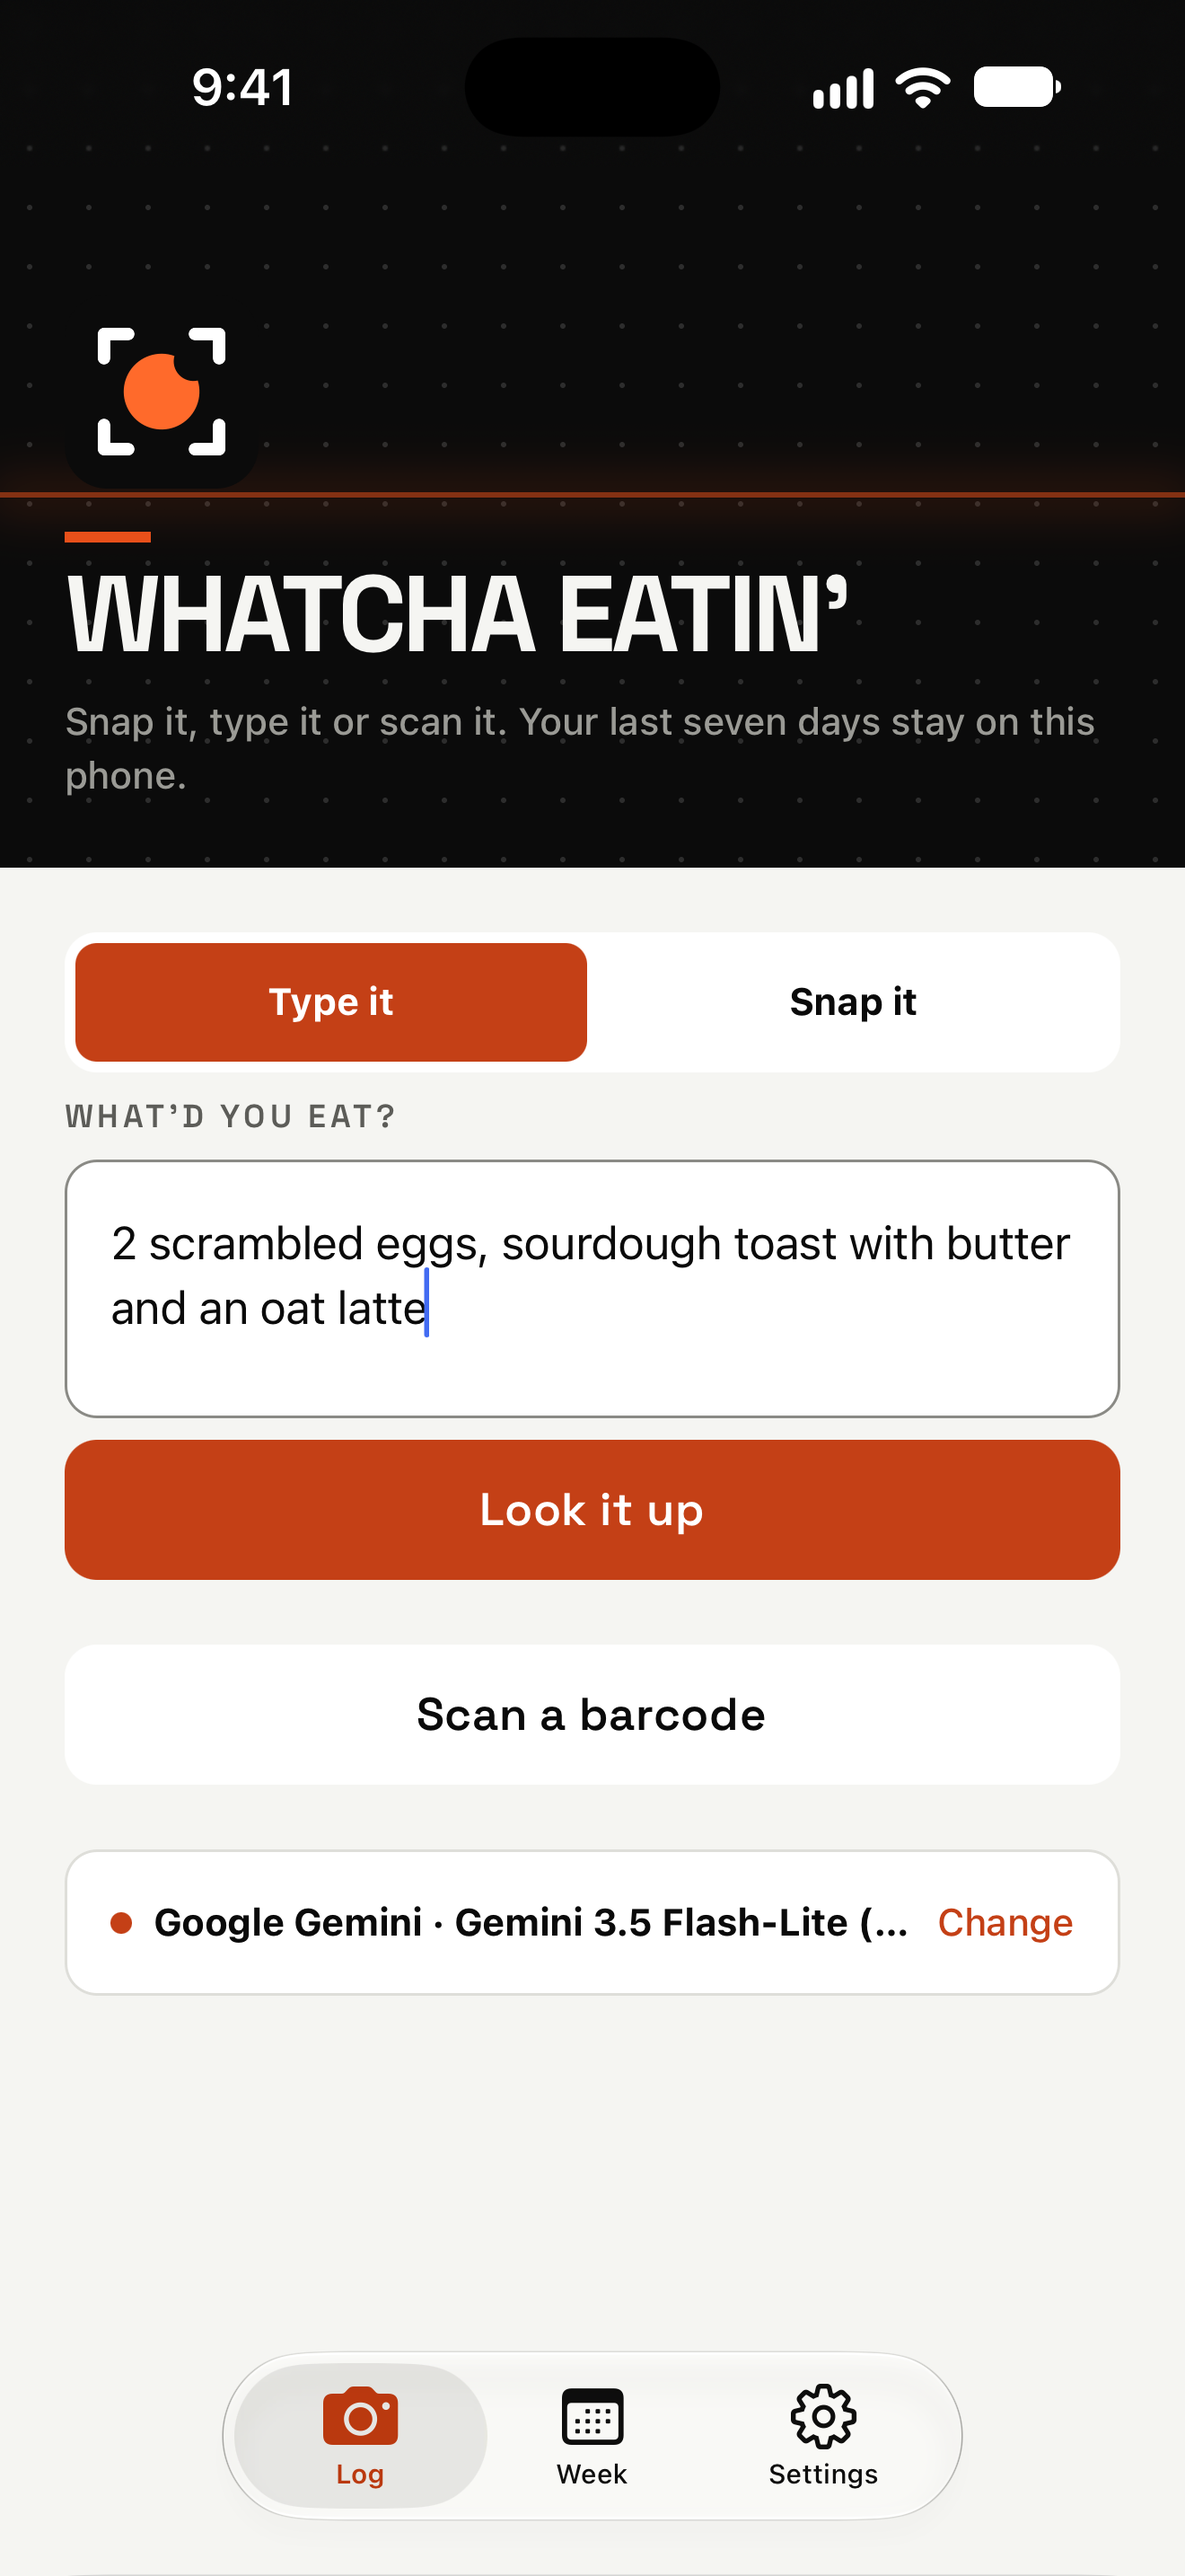
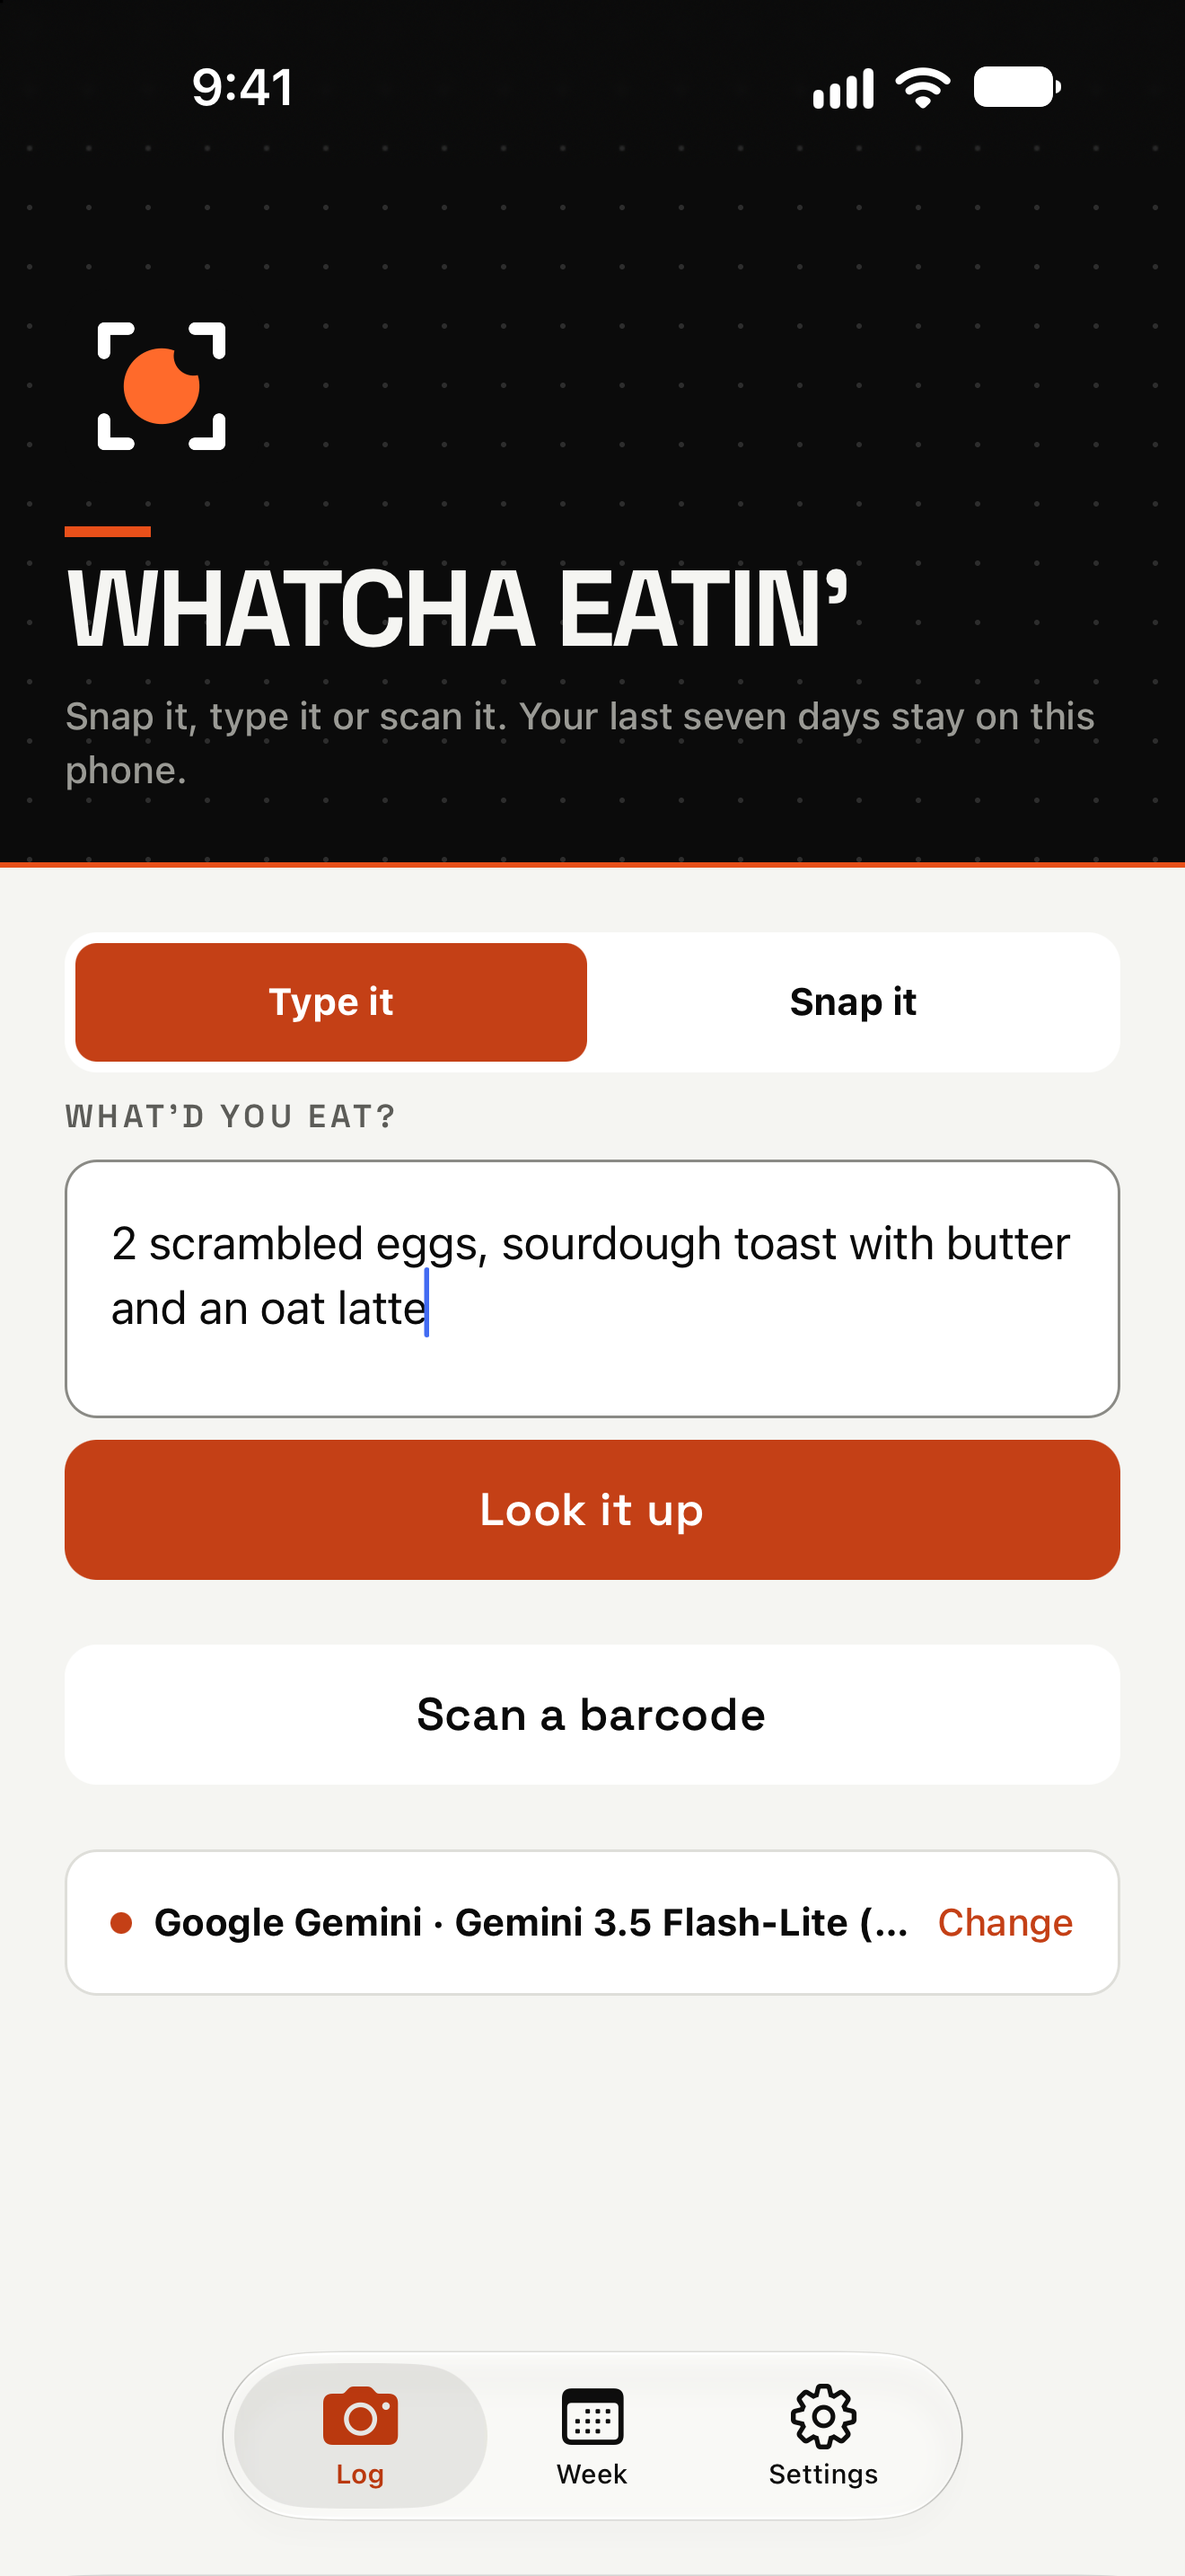
Release 1.2.0 with a static hero
- Bump the version to 1.2.0 for the redesign. It sets the iOS version
  and the Android version name. EAS still manages the build number and
  version code.
- Replace the moving scan line in the hero with a fixed orange edge, and
  remove the Reduce Motion hook that only the scan line used.
- Retake the iPhone Log screenshots and drop the animation lines from
  the release kit.

diff --git a/src/components/brand/hero.tsx b/src/components/brand/hero.tsx
@@ -1,13 +1,4 @@
-import { useEffect, useState } from 'react';
 import { StyleSheet, useWindowDimensions, View } from 'react-native';
-import Animated, {
-  cancelAnimation,
-  Easing,
-  useAnimatedStyle,
-  useSharedValue,
-  withRepeat,
-  withTiming,
-} from 'react-native-reanimated';
 import { useSafeAreaInsets } from 'react-native-safe-area-context';
 import Svg, { Circle, Defs, Pattern, Rect } from 'react-native-svg';
 
@@ -15,32 +6,32 @@ import { LogoMark } from '@/components/brand/logo-mark';
 import { ThemedText } from '@/components/themed-text';
 import { APP_NAME, APP_TAGLINE } from '@/constants/brand';
 import { DisplayFont, Spacing } from '@/constants/theme';
-import { useReduceMotion } from '@/hooks/use-reduce-motion';
 import { useTheme } from '@/hooks/use-theme';
 
 const HERO_HEIGHT = 260;
 /** In short windows, such as a phone in landscape, the hero gives up space to the form below it. */
 const MAX_HERO_SHARE = 0.4;
 const GRID = 22;
-const SCAN_DURATION = 3_600;
 
-/** A dark panel with a dot grid and a sweeping scan line behind the logo and wordmark. */
+/** A dark panel with a dot grid behind the logo and wordmark, edged in the brand orange. */
 export function Hero() {
   const theme = useTheme();
   const insets = useSafeAreaInsets();
   const window = useWindowDimensions();
+  // The panel grows past this when its content needs more room.
   const minHeight = Math.min(HERO_HEIGHT, window.height * MAX_HERO_SHARE) + insets.top;
-  // The panel grows when its content needs more room than `minHeight`, so the scan line follows the real height.
-  const [height, setHeight] = useState(minHeight);
 
   return (
-    <View style={[styles.hero, { minHeight, backgroundColor: theme.heroBackground }]}>
+    <View
+      style={[
+        styles.hero,
+        { minHeight, backgroundColor: theme.heroBackground, borderBottomColor: theme.heroAccent },
+      ]}>
       <View
         style={StyleSheet.absoluteFill}
         pointerEvents="none"
         accessibilityElementsHidden
-        importantForAccessibility="no-hide-descendants"
-        onLayout={(event) => setHeight(event.nativeEvent.layout.height)}>
+        importantForAccessibility="no-hide-descendants">
         <Svg width="100%" height="100%">
           <Defs>
             <Pattern id="dots" width={GRID} height={GRID} patternUnits="userSpaceOnUse">
@@ -49,7 +40,6 @@ export function Hero() {
           </Defs>
           <Rect width="100%" height="100%" fill="url(#dots)" />
         </Svg>
-        <ScanLine height={height} color={theme.heroAccent} />
       </View>
 
       <View
@@ -81,43 +71,10 @@ export function Hero() {
   );
 }
 
-function ScanLine({ height, color }: { height: number; color: string }) {
-  const reduceMotion = useReduceMotion();
-  const progress = useSharedValue(0.5);
-
-  useEffect(() => {
-    if (reduceMotion) {
-      // Park the line in the middle of the panel.
-      cancelAnimation(progress);
-      progress.value = 0.5;
-      return;
-    }
-    progress.value = 0;
-    progress.value = withRepeat(withTiming(1, { duration: SCAN_DURATION, easing: Easing.inOut(Easing.quad) }), -1, true);
-    return () => cancelAnimation(progress);
-  }, [reduceMotion, progress]);
-
-  const animatedStyle = useAnimatedStyle(() => ({
-    transform: [{ translateY: progress.value * (height - 2) }],
-  }));
-
-  return (
-    <Animated.View
-      style={[styles.scanLine, { backgroundColor: color, boxShadow: `0 0 18px 4px ${color}66` }, animatedStyle]}
-    />
-  );
-}
-
 const styles = StyleSheet.create({
   hero: {
     overflow: 'hidden',
-  },
-  scanLine: {
-    position: 'absolute',
-    left: 0,
-    right: 0,
-    height: 2,
-    opacity: 0.55,
+    borderBottomWidth: 2,
   },
   content: {
     flexGrow: 1,

diff --git a/store/README.md b/store/README.md
@@ -69,7 +69,7 @@ OPTIMIZED FOR IPHONE DUO
 Whatcha Eatin' fills both iPhone Duo displays. It adapts as you fold and unfold, in portrait or landscape, without restarting.
 
 ACCESSIBLE
-Works with VoiceOver, Dynamic Type and Reduce Motion, with high-contrast colors in light and dark mode.
+Works with VoiceOver and Dynamic Type, with high-contrast colors in light and dark mode.
 
 PRIVATE BY DESIGN
 - No sign-up and no servers
@@ -100,7 +100,6 @@ Also new:
 - A redesigned look, with a new Log tab and week view
 - Type what you ate to look it up, no photo needed
 - Better VoiceOver support, higher-contrast colors and larger tap targets
-- The hero animation stops when Reduce Motion is on
 ```
 
 ## App Privacy questionnaire
